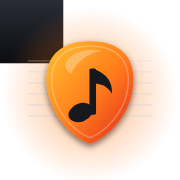
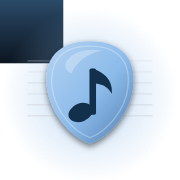
Add files via upload

diff --git a/riffkoje.html b/riffkoje.html
@@ -4,22 +4,22 @@
 <meta charset="utf-8">
 <meta name="viewport" content="width=device-width,initial-scale=1,viewport-fit=cover">
 <title>Riffkoje</title>
-<meta name="theme-color" content="#121314">
+<meta name="theme-color" content="#0F1A24">
 <meta name="referrer" content="strict-origin-when-cross-origin">
 <script src="shared.js"></script>
 <link rel="manifest" href="manifest.webmanifest">
 <link rel="icon" href="icon.svg" type="image/svg+xml">
 <link rel="apple-touch-icon" href="apple-touch-icon.png">
 <style>
-:root{--bg:#121314;--card:#1b1d1f;--line:#2b2e32;--text:#ebe7df;--mute:#9b978e;--amber:#f2a93b;--red:#e5484d;--green:#3fb27f;--r:12px;--in:#111214;--btn:#25282c;--meterbg:#0d0e0f;--row:#16181a;--tst:#2a2d31;--chipb:#24533f;--recbg:#2a1416;--recb:#5a2226;--recf:#ff8b8f;--onamber:#1a1205;--hdr:rgba(18,19,20,.94);color-scheme:dark}
-html[data-mk=light]{--bg:#f6f4ee;--card:#ffffff;--line:#d6d2c6;--text:#1d1f24;--mute:#656a75;--amber:#e08a00;--red:#c4342d;--green:#1f8a4c;--in:#ffffff;--btn:#eeebe2;--meterbg:#e6e2d6;--row:#faf8f2;--tst:#ffffff;--chipb:#9fd3b6;--recbg:#fdecec;--recb:#efb4b4;--recf:#b3261e;--onamber:#ffffff;--hdr:rgba(246,244,238,.94);color-scheme:light}
+:root{--bg:#0F1A24;--card:#172633;--line:#2B3D4E;--text:#E7EDF2;--mute:#A3B3C2;--amber:#8CBBEA;--red:#E08A80;--green:#86B08D;--r:12px;--in:#0B1520;--btn:#1E3346;--meterbg:#0B1520;--row:#13212E;--tst:#1E3346;--chipb:#1F3326;--recbg:#3D2220;--recb:#6A3430;--recf:#E08A80;--onamber:#0B1520;--hdr:rgba(15,26,36,.94);color-scheme:dark}
+html[data-mk=light]{--bg:#F5F1EA;--card:#ffffff;--line:#DDD5C8;--text:#14283B;--mute:#4D5F70;--amber:#17466E;--red:#A3352B;--green:#3F5F45;--in:#ffffff;--btn:#E4EDF4;--meterbg:#E4EDF4;--row:#FBF9F5;--tst:#ffffff;--chipb:#CFE0D0;--recbg:#F5DDDA;--recb:#E3B5AF;--recf:#A3352B;--onamber:#ffffff;--hdr:rgba(245,241,234,.94);color-scheme:light}
 *{box-sizing:border-box}
 [hidden]{display:none!important}
 body{margin:0;background:var(--bg);color:var(--text);font:16px/1.5 system-ui,-apple-system,"Segoe UI",Roboto,sans-serif;-webkit-tap-highlight-color:transparent}
 header{position:sticky;top:0;z-index:5;display:flex;align-items:center;justify-content:space-between;gap:12px;padding:12px 16px;padding-top:max(12px,env(safe-area-inset-top));background:var(--hdr);border-bottom:1px solid var(--line)}
 .brand{display:flex;align-items:center;gap:10px}
 .logo{width:36px;height:36px;border-radius:50%;background:var(--amber);position:relative;flex:none}
-.logo::after{content:"";position:absolute;left:50%;top:5px;width:3px;height:12px;margin-left:-1.5px;border-radius:2px;background:#1a1205;transform-origin:50% 13px;transform:rotate(40deg)}
+.logo::after{content:"";position:absolute;left:50%;top:5px;width:3px;height:12px;margin-left:-1.5px;border-radius:2px;background:#0B1520;transform-origin:50% 13px;transform:rotate(40deg)}
 h1{font-size:18px;margin:0;letter-spacing:.02em;line-height:1.2}
 header small{color:var(--mute);font-size:12px}
 .chip{font-size:12px;padding:4px 10px;border-radius:999px;border:1px solid var(--line);color:var(--mute);max-width:45vw;white-space:nowrap;overflow:hidden;text-overflow:ellipsis}
@@ -90,7 +90,7 @@ input[type=range]{padding:0;min-height:32px;accent-color:var(--amber);border:0;b
 #tabEmpty{padding:40px 16px;text-align:center;color:#6b665c;font-size:14px}
 #tabLoad{position:absolute;top:8px;right:8px;background:#1d1b17;color:#f6f3ec;font-size:12px;padding:4px 10px;border-radius:999px;pointer-events:none}
 .at-cursor-bar{background:rgba(242,169,59,.22)}
-.at-cursor-beat{background:#e5484d;width:3px}
+.at-cursor-beat{background:#E08A80;width:3px}
 .at-highlight *{fill:#c2410c;stroke:#c2410c}
 .at-selection div{background:rgba(242,169,59,.35)}
 details summary{cursor:pointer;color:var(--mute);font-size:14px;padding:6px 0}

diff --git a/shared.js b/shared.js
@@ -37,7 +37,7 @@ function applyTheme(){
   if(t==='auto')h.removeAttribute('data-theme');else h.setAttribute('data-theme',t);
   h.setAttribute('data-mk',r);
   var m=document.querySelector('meta[name=theme-color]');
-  if(m)m.setAttribute('content',r==='dark'?'#121314':'#f6f4ee');
+  if(m)m.setAttribute('content',r==='dark'?'#0F1A24':'#F5F1EA');
   var b=document.getElementById('mk-theme');
   if(b){b.textContent=t==='auto'?'🌓':t==='light'?'☀':'🌙';b.setAttribute('aria-label','Darstellung: '+(t==='auto'?'automatisch':t==='light'?'hell':'dunkel')+'. Zum Wechseln drücken.');b.title=b.getAttribute('aria-label')}
 }
@@ -50,8 +50,8 @@ var LINKS=[['index.html','Start','🏠'],['geigenpult.html','Geigenpult','Geige'
 var SUBS=[['akkorde.html','🎸 Akkorde'],['tabs.html','🎼 Tabulatur']];
 function css(){
   var s=document.createElement('style');
-  s.textContent=':root{--nb:#1c1e24;--nf:#f2f0ea;--nl:#3b3f4a;--nb2:#2c2f38;--nm:#a9a69d;--na:#f2a93b;--nao:#1a1205}'+
-  'html[data-mk=light]{--nb:#fbfaf6;--nf:#1d1f24;--nl:#d6d2c6;--nb2:#eeebe2;--nm:#656a75;--na:#2848d2;--nao:#ffffff}'+
+  s.textContent=':root{--nb:#0B1520;--nf:#E7EDF2;--nl:#3A5068;--nb2:#1E3346;--nm:#A3B3C2;--na:#8CBBEA;--nao:#0B1520}'+
+  'html[data-mk=light]{--nb:#12304B;--nf:#F5F1EA;--nl:#4D6A84;--nb2:#1D4568;--nm:#C9D6E2;--na:#8CBBEA;--nao:#0B1520}'+
   '#mknav{display:flex;align-items:center;gap:4px;flex-wrap:wrap;padding:8px 12px;padding-top:max(8px,env(safe-area-inset-top));background:var(--nb);color:var(--nf);border-bottom:1px solid var(--nl);font:500 14px/1.2 system-ui,-apple-system,"Segoe UI",Roboto,sans-serif;position:relative;z-index:30}'+
   '#mknav a{color:var(--nf);opacity:.8;text-decoration:none;padding:8px 12px;border-radius:999px}#mknav a:hover{background:var(--nb2);opacity:1}#mknav a[aria-current=page]{background:var(--nf);color:var(--nb);opacity:1}'+
   '#mknav .ls{display:none}#mknav .sp{flex:1}#mknav button{font:inherit;color:var(--nf);background:var(--nb2);border:1px solid var(--nl);border-radius:999px;padding:7px 12px;min-height:36px;cursor:pointer}'+
@@ -156,7 +156,7 @@ function readFile(cb){
   i.onchange=function(){var f=i.files&&i.files[0];if(!f)return;var r=new FileReader();r.onload=function(){try{var d=JSON.parse(r.result);if(!d||d.app!=='musikkoje'||!d.ls||typeof d.ls!=='object')throw 0;cb(d)}catch(e){msg('Diese Datei ist keine Musikkoje-Sicherung.',true)}};r.readAsText(f)};
   i.click();
 }
-function msg(t,bad){var m=document.getElementById('mk-msg');if(m){m.textContent=t;m.style.color=bad?'#e5484d':'var(--nm)';m.hidden=false}}
+function msg(t,bad){var m=document.getElementById('mk-msg');if(m){m.textContent=t;m.style.color=bad?'#E08A80':'var(--nm)';m.hidden=false}}
 function restoreAll(d){
   Object.keys(d.ls).forEach(function(k){if(!SKIP.test(k)&&k.indexOf('mk.last')!==0&&typeof d.ls[k]==='string')try{localStorage.setItem(k,d.ls[k])}catch(e){}});
   location.reload();

diff --git a/geigenpult.html b/geigenpult.html
@@ -19,8 +19,8 @@
 <style>
   /* Layout: ein schmaler Pult-Streifen. Oben Titel mit vier Saiten, dann Laden und Eingang, dann das Notenblatt auf weißem Papier, unten die feste Spielleiste. Im Vollbild füllt das Papier den Schirm und die Leiste schwebt klein darüber. */
   :root{
-    --bg:#e8ebef; --surface:#f7f8fa; --ink:#192027; --muted:#56636f; --line:#c9d0d8;
-    --accent:#2848d2; --on-accent:#ffffff; --cursor:#e5432a; --ok:#1b7748; --warn:#9a6200; --bad:#b3261e;
+    --bg:#F5F1EA; --surface:#FFFFFF; --ink:#14283B; --muted:#4D5F70; --line:#DDD5C8;
+    --accent:#17466E; --on-accent:#ffffff; --cursor:#e5432a; --ok:#3F5F45; --warn:#7A4E33; --bad:#A3352B;
     --paper:#fdfdfc; --paper-ink:#14181c;
     --f-display:'Newsreader',Georgia,'Times New Roman',serif;
     --f-ui:'Instrument Sans',system-ui,-apple-system,'Segoe UI',sans-serif;
@@ -28,14 +28,14 @@
   }
   @media (prefers-color-scheme: dark){
     :root:not([data-theme="light"]){
-      --bg:#111519; --surface:#1a2026; --ink:#e6ebef; --muted:#97a4af; --line:#2d363e;
-      --accent:#869cff; --on-accent:#0d1230; --cursor:#ff6b4d; --ok:#56c48a; --warn:#e3b341; --bad:#ff8a80;
+      --bg:#0F1A24; --surface:#172633; --ink:#E7EDF2; --muted:#A3B3C2; --line:#2B3D4E;
+      --accent:#8CBBEA; --on-accent:#0B1520; --cursor:#ff6b4d; --ok:#86B08D; --warn:#E6B999; --bad:#E08A80;
       color-scheme:dark;
     }
   }
   :root[data-theme="dark"]{
-    --bg:#111519; --surface:#1a2026; --ink:#e6ebef; --muted:#97a4af; --line:#2d363e;
-    --accent:#869cff; --on-accent:#0d1230; --cursor:#ff6b4d; --ok:#56c48a; --warn:#e3b341; --bad:#ff8a80;
+    --bg:#0F1A24; --surface:#172633; --ink:#E7EDF2; --muted:#A3B3C2; --line:#2B3D4E;
+    --accent:#8CBBEA; --on-accent:#0B1520; --cursor:#ff6b4d; --ok:#86B08D; --warn:#E6B999; --bad:#E08A80;
     color-scheme:dark;
   }
   *{box-sizing:border-box}
@@ -131,7 +131,7 @@
   #overlay{position:absolute;inset:0;pointer-events:none}
   #cursor{position:absolute;left:0;top:0;width:3px;border-radius:2px;background:var(--cursor);box-shadow:0 0 0 1px rgba(255,255,255,.65);will-change:transform}
   .livebub{position:absolute;left:0;top:0;z-index:6;pointer-events:none;font:700 13px/1 var(--f-ui);padding:5px 8px;border-radius:7px;color:#fff;white-space:nowrap;box-shadow:0 2px 8px rgba(0,0,0,.35)}
-  .livebub.good{background:#1f8a4c}.livebub.near{background:#b9770e}.livebub.off{background:#c4452c}
+  .livebub.good{background:#3F5F45}.livebub.near{background:#b9770e}.livebub.off{background:#A3352B}
   .flag{position:absolute;left:0;top:0;font:600 11px/1 var(--f-ui);color:var(--on-accent);background:var(--accent);padding:3px 5px;border-radius:3px}
   .flag::after{content:"";position:absolute;left:50%;top:100%;width:1.5px;height:var(--fh,40px);background:var(--accent);transform:translateX(-50%)}
   #marks i{position:absolute;width:9px;height:9px;margin-left:-4.5px;box-sizing:border-box}

diff --git a/whistle.html b/whistle.html
@@ -4,15 +4,15 @@
 <meta charset="utf-8">
 <meta name="viewport" content="width=device-width,initial-scale=1,viewport-fit=cover">
 <meta name="color-scheme" content="light dark">
-<meta name="theme-color" content="#1c1e24">
+<meta name="theme-color" content="#0B1520">
 <link rel="manifest" href="manifest.webmanifest">
 <link rel="icon" href="icon-192.png">
 <title>Low Whistle lernen</title>
 <script src="shared.js"></script>
 <style>
-:root{--bg:#f6f4ee;--card:#fff;--ink:#1d1f24;--muted:#656a75;--line:#dcd8cd;--acc:#2848d2;--on:#fff;--ok:#1f8a4c;--bad:#c4452c;--star:#f2a93b;--dot:#1d1f24;--doton:#fff}
-@media (prefers-color-scheme:dark){:root:not([data-theme=light]){--bg:#14161a;--card:#1d2026;--ink:#ecebe6;--muted:#a1a5ae;--line:#2e323a;--acc:#7b94ff;--on:#10131f;--ok:#4cc27e;--bad:#ff7a5c;--dot:#ecebe6;--doton:#14161a;color-scheme:dark}}
-:root[data-theme=dark]{--bg:#14161a;--card:#1d2026;--ink:#ecebe6;--muted:#a1a5ae;--line:#2e323a;--acc:#7b94ff;--on:#10131f;--ok:#4cc27e;--bad:#ff7a5c;--dot:#ecebe6;--doton:#14161a;color-scheme:dark}
+:root{--bg:#F5F1EA;--card:#fff;--ink:#14283B;--muted:#4D5F70;--line:#DDD5C8;--acc:#17466E;--on:#fff;--ok:#3F5F45;--bad:#A3352B;--star:#f2a93b;--dot:#14283B;--doton:#fff}
+@media (prefers-color-scheme:dark){:root:not([data-theme=light]){--bg:#0F1A24;--card:#172633;--ink:#E7EDF2;--muted:#A3B3C2;--line:#2B3D4E;--acc:#8CBBEA;--on:#0B1520;--ok:#86B08D;--bad:#E08A80;--dot:#E7EDF2;--doton:#0F1A24;color-scheme:dark}}
+:root[data-theme=dark]{--bg:#0F1A24;--card:#172633;--ink:#E7EDF2;--muted:#A3B3C2;--line:#2B3D4E;--acc:#8CBBEA;--on:#0B1520;--ok:#86B08D;--bad:#E08A80;--dot:#E7EDF2;--doton:#0F1A24;color-scheme:dark}
 :root[data-theme=light]{color-scheme:light}
 *{box-sizing:border-box}[hidden]{display:none!important}
 body{margin:0;background:var(--bg);color:var(--ink);font:16px/1.5 system-ui,-apple-system,"Segoe UI",Roboto,sans-serif}

diff --git a/tabs.html b/tabs.html
@@ -4,15 +4,15 @@
 <meta charset="utf-8">
 <meta name="viewport" content="width=device-width,initial-scale=1,viewport-fit=cover">
 <meta name="color-scheme" content="light dark">
-<meta name="theme-color" content="#1c1e24">
+<meta name="theme-color" content="#0B1520">
 <link rel="manifest" href="manifest.webmanifest">
 <link rel="icon" href="icon-192.png">
 <title>Tabulatur lernen</title>
 <script src="shared.js"></script>
 <style>
-:root{--bg:#f6f4ee;--card:#fff;--ink:#1d1f24;--muted:#656a75;--line:#dcd8cd;--acc:#2848d2;--on:#fff;--ok:#1f8a4c;--bad:#c4452c;--star:#f2a93b;--dot:#1d1f24;--doton:#fff}
-@media (prefers-color-scheme:dark){:root:not([data-theme=light]){--bg:#14161a;--card:#1d2026;--ink:#ecebe6;--muted:#a1a5ae;--line:#2e323a;--acc:#7b94ff;--on:#10131f;--ok:#4cc27e;--bad:#ff7a5c;--dot:#ecebe6;--doton:#14161a;color-scheme:dark}}
-:root[data-theme=dark]{--bg:#14161a;--card:#1d2026;--ink:#ecebe6;--muted:#a1a5ae;--line:#2e323a;--acc:#7b94ff;--on:#10131f;--ok:#4cc27e;--bad:#ff7a5c;--dot:#ecebe6;--doton:#14161a;color-scheme:dark}
+:root{--bg:#F5F1EA;--card:#fff;--ink:#14283B;--muted:#4D5F70;--line:#DDD5C8;--acc:#17466E;--on:#fff;--ok:#3F5F45;--bad:#A3352B;--star:#f2a93b;--dot:#14283B;--doton:#fff}
+@media (prefers-color-scheme:dark){:root:not([data-theme=light]){--bg:#0F1A24;--card:#172633;--ink:#E7EDF2;--muted:#A3B3C2;--line:#2B3D4E;--acc:#8CBBEA;--on:#0B1520;--ok:#86B08D;--bad:#E08A80;--dot:#E7EDF2;--doton:#0F1A24;color-scheme:dark}}
+:root[data-theme=dark]{--bg:#0F1A24;--card:#172633;--ink:#E7EDF2;--muted:#A3B3C2;--line:#2B3D4E;--acc:#8CBBEA;--on:#0B1520;--ok:#86B08D;--bad:#E08A80;--dot:#E7EDF2;--doton:#0F1A24;color-scheme:dark}
 :root[data-theme=light]{color-scheme:light}
 *{box-sizing:border-box}[hidden]{display:none!important}
 body{margin:0;background:var(--bg);color:var(--ink);font:16px/1.5 system-ui,-apple-system,"Segoe UI",Roboto,sans-serif}

diff --git a/akkorde.html b/akkorde.html
@@ -4,15 +4,15 @@
 <meta charset="utf-8">
 <meta name="viewport" content="width=device-width,initial-scale=1,viewport-fit=cover">
 <meta name="color-scheme" content="light dark">
-<meta name="theme-color" content="#1c1e24">
+<meta name="theme-color" content="#0B1520">
 <link rel="manifest" href="manifest.webmanifest">
 <link rel="icon" href="icon-192.png">
 <title>Gitarrenakkorde</title>
 <script src="shared.js"></script>
 <style>
-:root{--bg:#f6f4ee;--card:#fff;--ink:#1d1f24;--muted:#656a75;--line:#dcd8cd;--acc:#2848d2;--on:#fff;--ok:#1f8a4c;--bad:#c4452c;--star:#f2a93b;--dot:#1d1f24;--doton:#fff}
-@media (prefers-color-scheme:dark){:root:not([data-theme=light]){--bg:#14161a;--card:#1d2026;--ink:#ecebe6;--muted:#a1a5ae;--line:#2e323a;--acc:#7b94ff;--on:#10131f;--ok:#4cc27e;--bad:#ff7a5c;--dot:#ecebe6;--doton:#14161a;color-scheme:dark}}
-:root[data-theme=dark]{--bg:#14161a;--card:#1d2026;--ink:#ecebe6;--muted:#a1a5ae;--line:#2e323a;--acc:#7b94ff;--on:#10131f;--ok:#4cc27e;--bad:#ff7a5c;--dot:#ecebe6;--doton:#14161a;color-scheme:dark}
+:root{--bg:#F5F1EA;--card:#fff;--ink:#14283B;--muted:#4D5F70;--line:#DDD5C8;--acc:#17466E;--on:#fff;--ok:#3F5F45;--bad:#A3352B;--star:#f2a93b;--dot:#14283B;--doton:#fff}
+@media (prefers-color-scheme:dark){:root:not([data-theme=light]){--bg:#0F1A24;--card:#172633;--ink:#E7EDF2;--muted:#A3B3C2;--line:#2B3D4E;--acc:#8CBBEA;--on:#0B1520;--ok:#86B08D;--bad:#E08A80;--dot:#E7EDF2;--doton:#0F1A24;color-scheme:dark}}
+:root[data-theme=dark]{--bg:#0F1A24;--card:#172633;--ink:#E7EDF2;--muted:#A3B3C2;--line:#2B3D4E;--acc:#8CBBEA;--on:#0B1520;--ok:#86B08D;--bad:#E08A80;--dot:#E7EDF2;--doton:#0F1A24;color-scheme:dark}
 :root[data-theme=light]{color-scheme:light}
 *{box-sizing:border-box}[hidden]{display:none!important}
 body{margin:0;background:var(--bg);color:var(--ink);font:16px/1.5 system-ui,-apple-system,"Segoe UI",Roboto,sans-serif}

diff --git a/einstellungen.html b/einstellungen.html
@@ -4,15 +4,15 @@
 <meta charset="utf-8">
 <meta name="viewport" content="width=device-width,initial-scale=1,viewport-fit=cover">
 <meta name="color-scheme" content="light dark">
-<meta name="theme-color" content="#1c1e24">
+<meta name="theme-color" content="#0B1520">
 <link rel="manifest" href="manifest.webmanifest">
 <link rel="icon" href="icon-192.png">
 <title>Einstellungen</title>
 <script src="shared.js"></script>
 <style>
-:root{--bg:#f6f4ee;--card:#fff;--ink:#1d1f24;--muted:#656a75;--line:#dcd8cd;--acc:#2848d2;--on:#fff;--ok:#1f8a4c;--bad:#c4452c;--star:#f2a93b;--dot:#1d1f24;--doton:#fff}
-@media (prefers-color-scheme:dark){:root:not([data-theme=light]){--bg:#14161a;--card:#1d2026;--ink:#ecebe6;--muted:#a1a5ae;--line:#2e323a;--acc:#7b94ff;--on:#10131f;--ok:#4cc27e;--bad:#ff7a5c;--dot:#ecebe6;--doton:#14161a;color-scheme:dark}}
-:root[data-theme=dark]{--bg:#14161a;--card:#1d2026;--ink:#ecebe6;--muted:#a1a5ae;--line:#2e323a;--acc:#7b94ff;--on:#10131f;--ok:#4cc27e;--bad:#ff7a5c;--dot:#ecebe6;--doton:#14161a;color-scheme:dark}
+:root{--bg:#F5F1EA;--card:#fff;--ink:#14283B;--muted:#4D5F70;--line:#DDD5C8;--acc:#17466E;--on:#fff;--ok:#3F5F45;--bad:#A3352B;--star:#f2a93b;--dot:#14283B;--doton:#fff}
+@media (prefers-color-scheme:dark){:root:not([data-theme=light]){--bg:#0F1A24;--card:#172633;--ink:#E7EDF2;--muted:#A3B3C2;--line:#2B3D4E;--acc:#8CBBEA;--on:#0B1520;--ok:#86B08D;--bad:#E08A80;--dot:#E7EDF2;--doton:#0F1A24;color-scheme:dark}}
+:root[data-theme=dark]{--bg:#0F1A24;--card:#172633;--ink:#E7EDF2;--muted:#A3B3C2;--line:#2B3D4E;--acc:#8CBBEA;--on:#0B1520;--ok:#86B08D;--bad:#E08A80;--dot:#E7EDF2;--doton:#0F1A24;color-scheme:dark}
 :root[data-theme=light]{color-scheme:light}
 *{box-sizing:border-box}[hidden]{display:none!important}
 body{margin:0;background:var(--bg);color:var(--ink);font:16px/1.5 system-ui,-apple-system,"Segoe UI",Roboto,sans-serif}

diff --git a/theorie.html b/theorie.html
@@ -4,15 +4,15 @@
 <meta charset="utf-8">
 <meta name="viewport" content="width=device-width,initial-scale=1,viewport-fit=cover">
 <meta name="color-scheme" content="light dark">
-<meta name="theme-color" content="#1c1e24">
+<meta name="theme-color" content="#0B1520">
 <link rel="manifest" href="manifest.webmanifest">
 <link rel="icon" href="icon-192.png">
 <title>Musiktheorie</title>
 <script src="shared.js"></script>
 <style>
-:root{--bg:#f6f4ee;--card:#fff;--ink:#1d1f24;--muted:#656a75;--line:#dcd8cd;--acc:#2848d2;--on:#fff;--ok:#1f8a4c;--bad:#c4452c;--star:#f2a93b;--paper:#fffdf8}
-@media (prefers-color-scheme:dark){:root:not([data-theme=light]){--bg:#14161a;--card:#1d2026;--ink:#ecebe6;--muted:#a1a5ae;--line:#2e323a;--acc:#7b94ff;--on:#10131f;--ok:#4cc27e;--bad:#ff7a5c;--paper:#23262d;color-scheme:dark}}
-:root[data-theme=dark]{--bg:#14161a;--card:#1d2026;--ink:#ecebe6;--muted:#a1a5ae;--line:#2e323a;--acc:#7b94ff;--on:#10131f;--ok:#4cc27e;--bad:#ff7a5c;--paper:#23262d;color-scheme:dark}
+:root{--bg:#F5F1EA;--card:#fff;--ink:#14283B;--muted:#4D5F70;--line:#DDD5C8;--acc:#17466E;--on:#fff;--ok:#3F5F45;--bad:#A3352B;--star:#f2a93b;--paper:#fffdf8}
+@media (prefers-color-scheme:dark){:root:not([data-theme=light]){--bg:#0F1A24;--card:#172633;--ink:#E7EDF2;--muted:#A3B3C2;--line:#2B3D4E;--acc:#8CBBEA;--on:#0B1520;--ok:#86B08D;--bad:#E08A80;--paper:#23262d;color-scheme:dark}}
+:root[data-theme=dark]{--bg:#0F1A24;--card:#172633;--ink:#E7EDF2;--muted:#A3B3C2;--line:#2B3D4E;--acc:#8CBBEA;--on:#0B1520;--ok:#86B08D;--bad:#E08A80;--paper:#23262d;color-scheme:dark}
 :root[data-theme=light]{color-scheme:light}
 *{box-sizing:border-box}[hidden]{display:none!important}
 body{margin:0;background:var(--bg);color:var(--ink);font:16px/1.5 system-ui,-apple-system,"Segoe UI",Roboto,sans-serif}

diff --git a/index.html b/index.html
@@ -4,7 +4,7 @@
 <meta charset="utf-8">
 <meta name="viewport" content="width=device-width,initial-scale=1,viewport-fit=cover">
 <meta name="color-scheme" content="light dark">
-<meta name="theme-color" content="#1c1e24">
+<meta name="theme-color" content="#0B1520">
 <meta name="apple-mobile-web-app-capable" content="yes">
 <meta name="apple-mobile-web-app-title" content="Musikkoje">
 <link rel="manifest" href="manifest.webmanifest">
@@ -13,9 +13,9 @@
 <title>Musikkoje</title>
 <script src="shared.js"></script>
 <style>
-:root{--bg:#f6f4ee;--card:#fff;--ink:#1d1f24;--muted:#656a75;--line:#dcd8cd;--acc:#2848d2}
-@media (prefers-color-scheme:dark){:root:not([data-theme=light]){--bg:#14161a;--card:#1d2026;--ink:#ecebe6;--muted:#a1a5ae;--line:#2e323a;--acc:#7b94ff;color-scheme:dark}}
-:root[data-theme=dark]{--bg:#14161a;--card:#1d2026;--ink:#ecebe6;--muted:#a1a5ae;--line:#2e323a;--acc:#7b94ff;color-scheme:dark}
+:root{--bg:#F5F1EA;--card:#fff;--ink:#14283B;--muted:#4D5F70;--line:#DDD5C8;--acc:#17466E}
+@media (prefers-color-scheme:dark){:root:not([data-theme=light]){--bg:#0F1A24;--card:#172633;--ink:#E7EDF2;--muted:#A3B3C2;--line:#2B3D4E;--acc:#8CBBEA;color-scheme:dark}}
+:root[data-theme=dark]{--bg:#0F1A24;--card:#172633;--ink:#E7EDF2;--muted:#A3B3C2;--line:#2B3D4E;--acc:#8CBBEA;color-scheme:dark}
 :root[data-theme=light]{color-scheme:light}
 *{box-sizing:border-box}[hidden]{display:none!important}body{margin:0;background:var(--bg);color:var(--ink);font:16px/1.5 system-ui,-apple-system,"Segoe UI",Roboto,sans-serif}
 main{max-width:820px;margin:0 auto;padding:20px 16px 80px;display:grid;gap:16px}

diff --git a/sw.js b/sw.js
@@ -1,5 +1,5 @@
 /* Service Worker: App-Hülle offline, Bibliotheken (Tone, OSMD, PDF.js, Schriften) nach dem ersten Laden aus dem Cache. */
-const V = 'musikkoje-v9';
+const V = 'musikkoje-v10';
 const SHELL = ['./', 'index.html', 'geigenpult.html', 'riffkoje.html', 'theorie.html', 'akkorde.html', 'tabs.html', 'whistle.html', 'einstellungen.html', 'shared.js', 'manifest.webmanifest', 'icon-192.png', 'icon-512.png', 'icon-maskable-512.png', 'apple-touch-icon.png', 'icon.svg'];
 const CDN = ['cdnjs.cloudflare.com', 'cdn.jsdelivr.net', 'unpkg.com', 'fonts.googleapis.com', 'fonts.gstatic.com'];
 

diff --git a/README.md b/README.md
@@ -16,6 +16,9 @@ Jede Person hat ein eigenes Profil mit eigenem Fortschritt, eigenen Stücken und
 - **Xylophon** (Theorie, Entdecker): Farbige Klangstäbe, freies Spiel und vier Lieder zum Nachspielen für die Zwillinge.
 - **Adventskalender** auf der Startseite vom 1. bis 24. Dezember. Zum Ausprobieren: `index.html?advent=12` anhängen.
 
+## Neu: Farbstil wie die Knotenpunkt-Praxis
+Alle Bereiche, die Navigationsleiste und das App-Icon nutzen jetzt die Farben der Praxis-App: Marineblau, warmes Sandweiß, gedämpftes Grün; im Dunkelmodus Blaugrau mit hellblauem Akzent.
+
 ## Neu: Einstellungen und Live-Anzeige beim Üben
 - **Einstellungen:** ⚙ oben rechts → eigene Seite `einstellungen.html`. Dort stehen Mikrofon-Quelle (Auswahlliste aller Eingänge, mit Hinweis, welche Quelle gerade wirklich benutzt wird), ein Mikrofon-Test mit Pegelanzeige, erkanntem Ton und Cent-Nadel, Empfindlichkeit, Kammerton (A4), Hell/Dunkel, Sicherung/Geräte-Abgleich und Profile.
 - **Mikrofon-Test:** „Test starten“, einen Ton spielen oder singen. Die Seite zeigt Notenname, „zu hoch“/„zu tief“ in Cent und die aktive Quelle. Beim Tablet-Mikro bitte die Auswahl „Eingebautes Mikrofon“ probieren, falls der Standard nicht reagiert.
